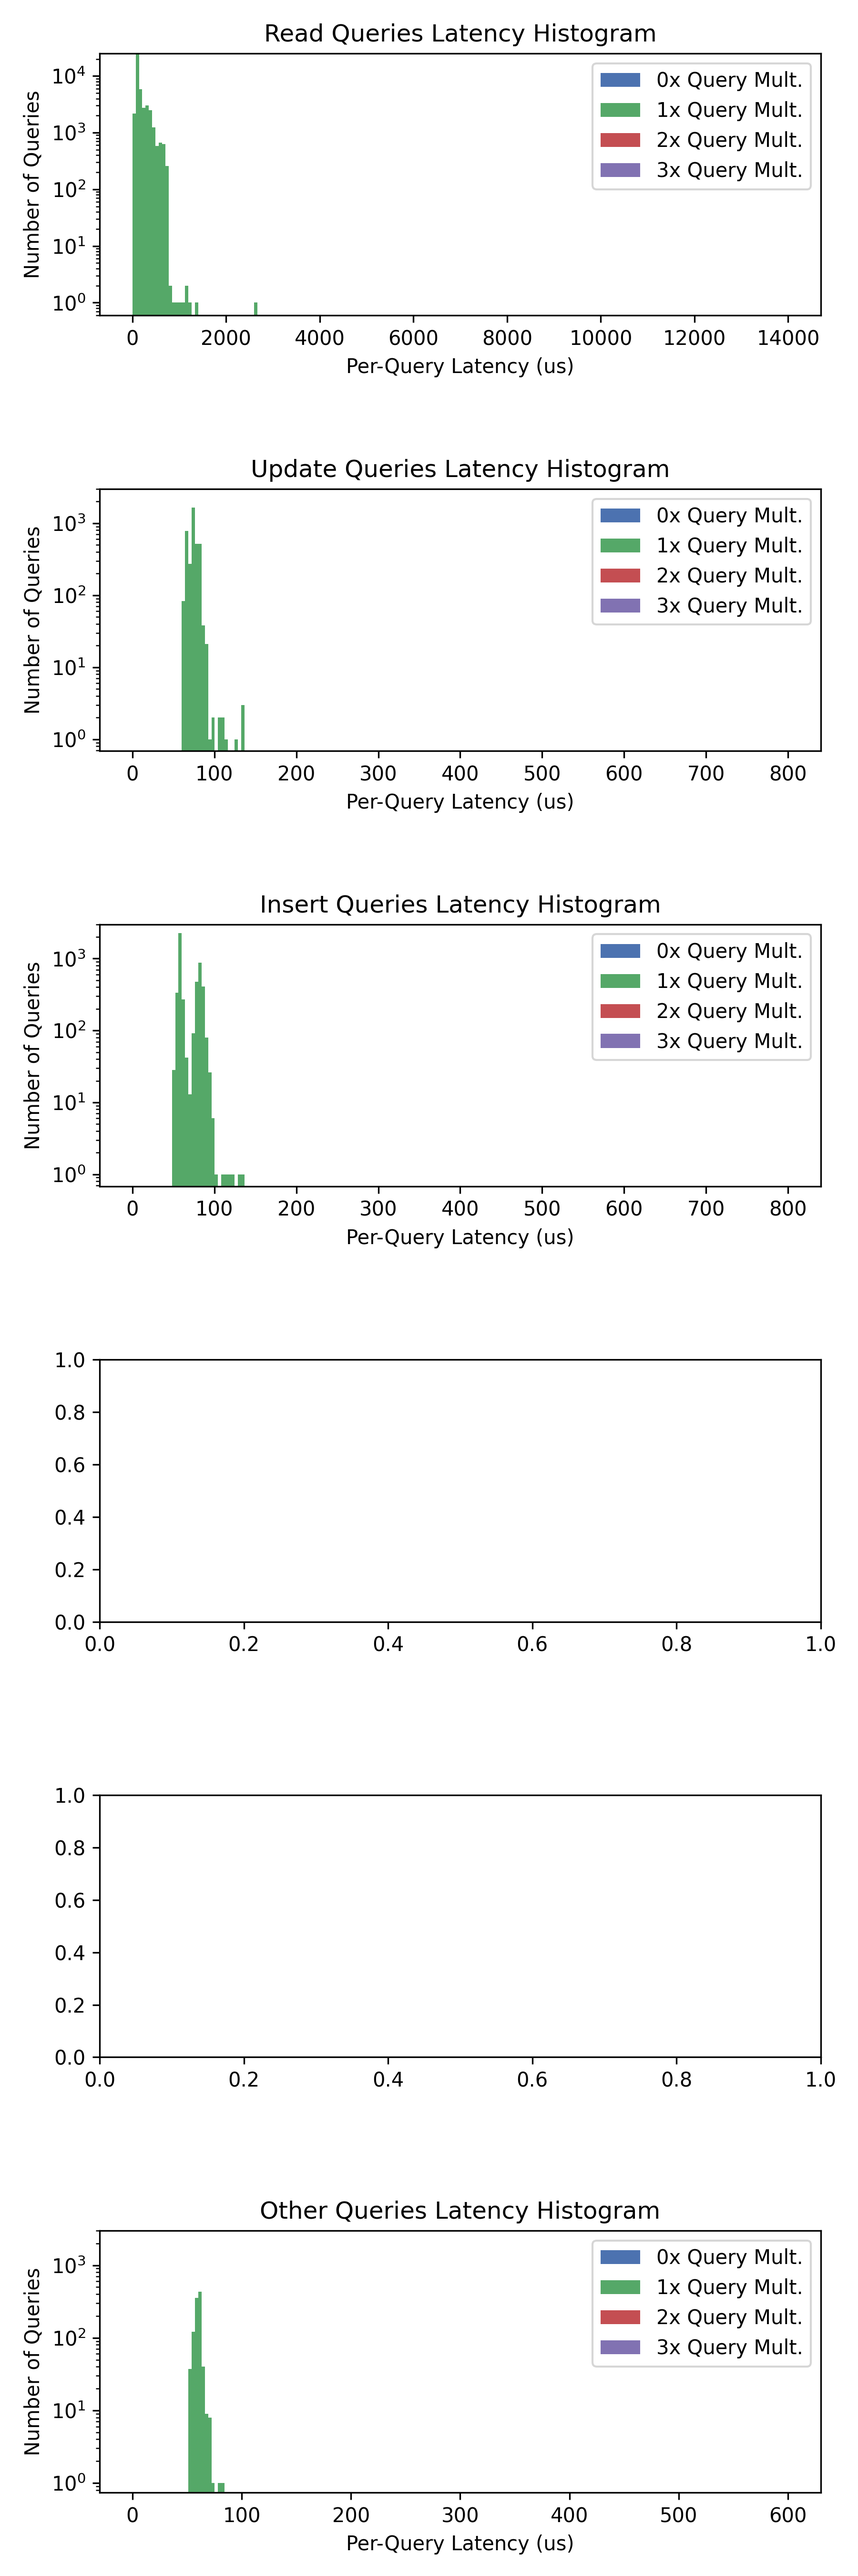
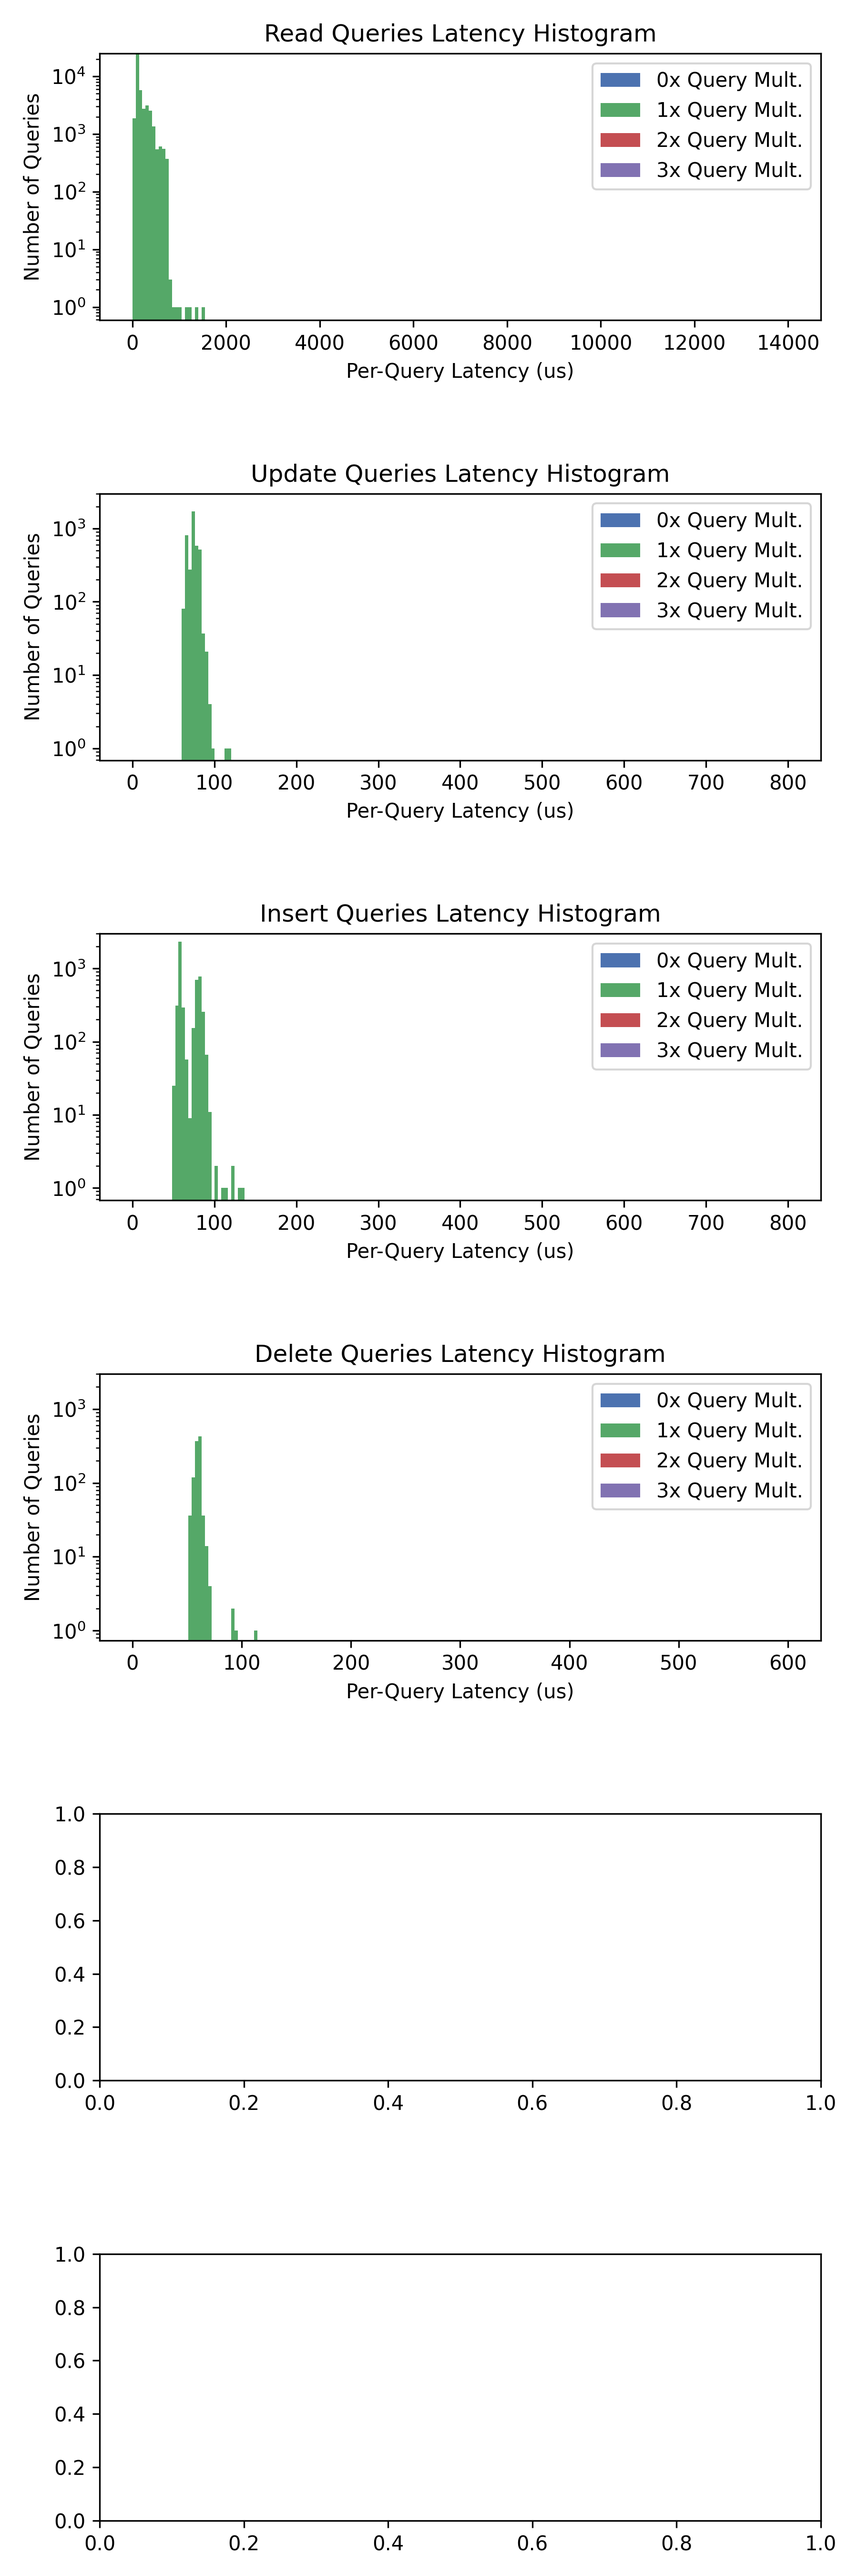
new graphs and results

diff --git a/decor/benchmarks/plot.py b/decor/benchmarks/plot.py
@@ -5,7 +5,7 @@ import csv
 plt.style.use('seaborn-deep')
 
 tests = ["decor", "shim_only", "shim_parse"]
-names = ["Read", "Update", "Insert", "Unsub", "Resub", "Other"]
+names = ["Read", "Update", "Insert", "Unsub", "Resub", "Delete"]
 ybounds = [25000, 3000, 3000, 3000, 3000, 3000]
 bins = [np.linspace(0, 14000, 200),
     np.linspace(0, 800, 200),
@@ -20,6 +20,7 @@ for test in tests:
         rows = csvfile.readlines()
         fig, axes = plt.subplots(nrows=len(rows), ncols=1, figsize=(6,18))
         axes_flat = axes.flatten()
+        ai = 0
         for (i, row) in enumerate(rows):
             q2lats = [[] for _ in range(4)]
             pairs = row.split(';')[:-1]
@@ -34,15 +35,16 @@ for test in tests:
                 if qs > 5:
                     continue
                 q2lats[qs].append(latency)
-            axes_flat[i].hist(q2lats,
+            axes_flat[ai].hist(q2lats,
                     bins[i],
                     stacked=True,
                     label=[str(i) + "x Query Mult." for i in range(len(q2lats))])
-            axes_flat[i].legend(loc='upper right')
-            axes_flat[i].set_title(names[i]+" Queries Latency Histogram")
-            axes_flat[i].set_yscale('log')
-            axes_flat[i].set_ylim(ymax = ybounds[i])
-            axes_flat[i].set_xlabel('Per-Query Latency (us)')
-            axes_flat[i].set_ylabel('Number of Queries')
+            axes_flat[ai].legend(loc='upper right')
+            axes_flat[ai].set_title(names[i]+" Queries Latency Histogram")
+            axes_flat[ai].set_yscale('log')
+            axes_flat[ai].set_ylim(ymax = ybounds[i])
+            axes_flat[ai].set_xlabel('Per-Query Latency (us)')
+            axes_flat[ai].set_ylabel('Number of Queries')
+            ai += 1
     fig.tight_layout(h_pad=4)
     plt.savefig('{}.png'.format(test), dpi=300)

diff --git a/decor/src/decor-mem/src/stats.rs b/decor/src/decor-mem/src/stats.rs
@@ -4,7 +4,7 @@ use std::time::Duration;
 use sql_parser::ast::*;
 use sql_parser::parser::*;
 use std::*;
-use log::warn;
+use log::error;
 
 #[derive(Debug, Clone)]
 pub enum QueryType {
@@ -136,7 +136,7 @@ pub fn print_stats(stats: &Vec<QueryStat>, filename: String) {
                 resub_latencies.push((stat.nqueries, stat.duration.as_micros()));
             }
             _ => {
-                warn!("Found other query type {:?}", stat.qtype);
+                //error!("Found other query type {:?}", stat.qtype);
                 other_latencies.push((stat.nqueries, stat.duration.as_micros()));
             }
         }
